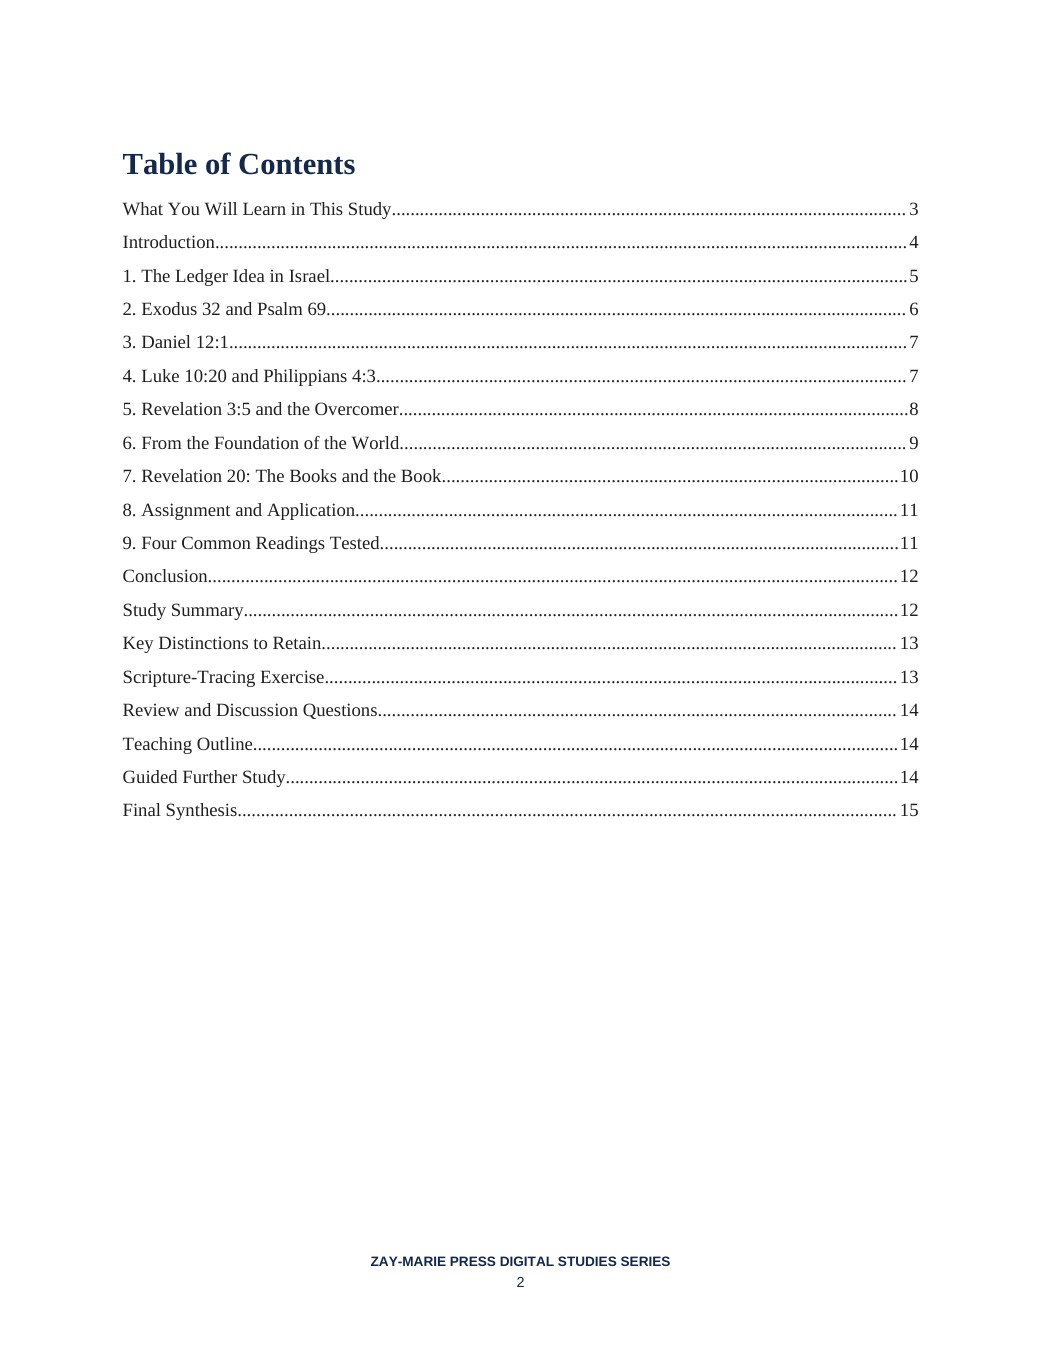
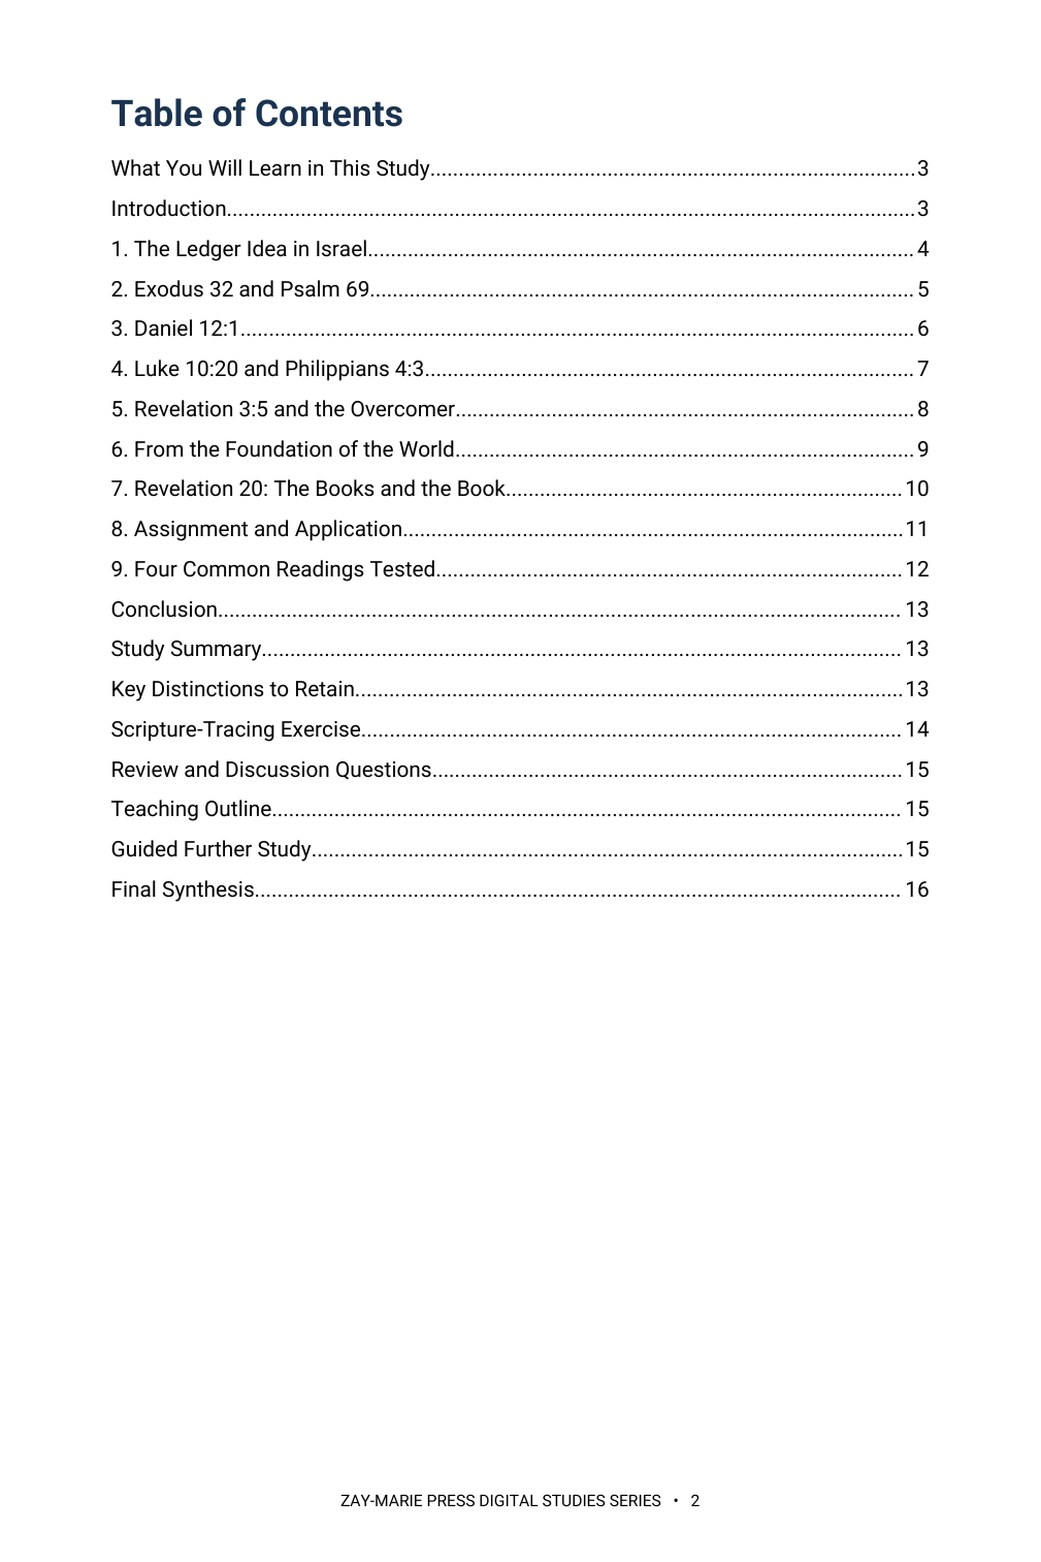
Study 68: rebuilt in Roboto at 10 pt, 16 pages; previews and trackers updated
Claude-Session: https://claude.ai/code/session_01HC7bs9KYP2scp4hCL6DkTp

diff --git a/CLAUDE.md b/CLAUDE.md
@@ -23,7 +23,7 @@ These are kept in the repo at `controlling-documents/` and are the current versi
 - As of v1.50 (publisher directive, 2026-10-03), the **What You Will Learn in This Study** section is always bulleted, never set as running paragraphs, written into this file in the same pass (Master Standard Section 3 item 4, Section 6 structure line, Section 22): a list of bullet points, each describing one process, textual marker or interpretive discipline the reader will practice (Section 17 still governs what they may say); at most one short lead-in line may stand above the bullets (for example, “By the end of this study, you should be able to:”); the Study Goal callout and the Study Outline keep their own forms. It governs every new study and every study rebuilt or retrofitted from now on; earlier studies take it when reopened or when the publisher directs. In every study check (Step 1), report whether the section is bulleted. First applied to Study 43.
 **`controlling-documents/Digital_Studies_Relationship_Map_v1.39.md`** — records each study's distinct subject, its related studies, the eight priced six-study collections, the Paul's Missionary Journeys cross-reference map, and the five primary catalog categories (currently version 1.39, covers Studies 1–71; update it as new studies publish, bump the version number, rename the file to match, and log the change in its own version-history table — mirroring the Master Standard's `_vX.Y` filename convention). Check a proposed topic against it before recommending or writing a new study. (2026-09-28: the file was missing from this repo despite this note referencing it; replaced from the publisher's copy and bumped v1.15→v1.25 in the same pass. If this note ever again points to a version not present under `controlling-documents/`, ask the publisher for a copy rather than proceeding without the check.)
 - **`controlling-documents/Digital_Studies_Category_Standard_v1.1.md`** — FINAL and binding (publisher, 2026-10-01): the rules for the five primary catalog categories (Foundations, Israel & Prophecy, Body of Christ, Passages, Doctrinal Themes), the ordered decision procedure for new studies, the precedents, all 71 fixed assignments, and the cover-label form for each category. Read it before placing any card or cover label. Do not ask the publisher where a study belongs; apply the procedure and state the result. Only the publisher changes a ruling; then bump this Standard's version and filename, re-letter the cover, and update the Relationship Map.
-- **`controlling-documents/Doctrinal_Upgrade_Retrofit_Plan_v1.90.md`** — working tracker for retrofitting Studies 1–59 to the 2026-10-02 doctrinal upgrade (Framework/PAM v1.1, Master Standard v1.40, Rules 7–17): withdrawn-wording search keys, impact tiers, waves and the per-study method. Read it before continuing the retrofit in any session; update status, bump the version and rename the file as work proceeds.
+- **`controlling-documents/Doctrinal_Upgrade_Retrofit_Plan_v1.91.md`** — working tracker for retrofitting Studies 1–59 to the 2026-10-02 doctrinal upgrade (Framework/PAM v1.1, Master Standard v1.40, Rules 7–17): withdrawn-wording search keys, impact tiers, waves and the per-study method. Read it before continuing the retrofit in any session; update status, bump the version and rename the file as work proceeds.
 - **`controlling-documents/Doctrinal_Packet_Standard_v0.3.md`** — Doctrinal Packet Standard (DRAFT; §7 approved). Governs the separate Doctrinal Packets product strand (5-page interpretive PDFs per Bible book — a print-friendly cover as page 1 plus 4 content pages, $2.99, KJV, pilot: Genesis, live at `packet-genesis.html`, hub `doctrinal-packets.html`; site pages say "5 Pages", cover styles live in `packets.css`, Old Testament blue and New Testament soft pale green, hub listed in Bible order). **Preview rule (publisher directive, 2026-09-29, packets only):** previews show about one page's worth in two cropped views (top of page 1 through the anchor texts; the chart section) — never the exegesis, architecture, Mystery contrast, logic chain, outline, or closing. Master Standard §16/§17 still govern Digital Studies. Bump the version and rename the file as the Standard is finalized.
 - **`controlling-documents/Preview_Page_Spoiler_Retrofit_Audit_v1.4.md`** — working tracker for the Studies 1–60 preview-page conclusion-spoiler retrofit (see the section below). Read it before continuing that audit in any session; update its status fields and changelog, bump the version, and rename the file to match as the audit proceeds — same `_vX.Y` convention as the other controlling documents. As of v1.1, the website-side half was DONE: all 60 studies' "What You'll Study" text was judged against the rule (methodology documented in the file) and 22 points across 11 studies were rewritten and pushed; an unrelated Study 22 content bug (Study 21's content had leaked into it) was also found and fixed. As of v1.2, the publisher supplied Studies 1–60's interior production PDFs and the interior-PDF half was also surveyed (read-only): 10 studies (37, 41, 45, 47, 48, 49, 51, 52, 53, 54) were found to have at least one interior "What You Will Learn" violation, 50 studies were confirmed compliant, and the orphaned `assets/study-45-sanctification-under-grace.docx` (removed from the repo per the publisher in v1.0) was confirmed word-for-word identical to Study 45's actual production interior PDF content. As of v1.3, the publisher supplied editable DOCX sources for all 10 violating studies; all 15 violating points were rewritten and approved, delivered as corrected final PDFs, and — along the way — a second defect was found and fixed (Studies 47 and 48's source DOCX still had an unintegrated cover placeholder despite both being long-published live with real covers; fixed by inserting the existing approved cover art). The website's "What You Will Learn" preview image (`study-NN-page-3.jpg`) was regenerated from the corrected content for all 10 studies and pushed to `main` (commit `cea1859`), verified against a fresh clone. **The website side of this audit is now fully compliant for all 60 studies.** Outstanding: the publisher's purchasable interior PDF files themselves have corrected versions delivered, but distribution to existing purchasers was decided by the publisher on 2026-09-29: silent swap of the files behind the existing downloads, no reissue notice (recorded in the v1.4 changelog entry; the product files are not in this repo).
 

diff --git a/controlling-documents/Doctrinal_Upgrade_Retrofit_Plan_v1.91.md b/controlling-documents/Doctrinal_Upgrade_Retrofit_Plan_v1.91.md
@@ -183,3 +183,4 @@ Working tracker for correcting published studies to the Framework/PAM v1.1, Mast
 - v1.88 (2026-10-03): Study 65 correction. The v1.87 build was set in the wrong typeface by a fontconfig fault; rebuilt in Roboto (pdffonts confirms Roboto Regular, Bold and Italic only). Page count is 16 (cover plus 15), not 17; site.js, page text and previews 2, 3 and 5 updated. Content edits as logged in v1.87 are unchanged. Every later build is checked with pdffonts.
 - v1.89 (2026-10-03): Study 66 rebuilt in Roboto at 10 pt on the current page from the publisher's PDF (no DOCX or approved FINAL supplied; text taken from the PDF word for word), 16 pages (cover plus 15; unchanged). Changes: What You Will Learn set as bullets under one lead-in (closing paragraph removed; bullet 7 reworded to a process line); nine callouts reduced to five (Setting Before Command, Authority Before Assignment, One Command and The Age Matthew Names became run-in paragraphs, wording unchanged); Teaching Outline numerals changed to 1–8; split end-of-the-age table merged; reader-facing wording: "framework of this series" (6.3, 7.1), "the framework's treatment of Acts 28" and "controlling framework" replaced. No withdrawn doctrinal wording found. pdffonts confirms Roboto only. Previews 2, 3 and 5 re-rendered.
 - v1.90 (2026-10-03): Study 67 rebuilt in Roboto at 10 pt on the current page from the publisher's PDF (no DOCX or approved FINAL supplied; text taken from the PDF word for word), 17 pages (cover plus 16; was 16). Changes: What You Will Learn set as bullets under one lead-in (closing paragraph removed; bullet 7 reworded to a process line); nine callouts reduced to five (Setting Before Title, Two Titles One Office, Stated Not Supplied and The Readers First became run-in paragraphs, wording unchanged); Teaching Outline numerals changed to 1–8; two split tables merged; reader-facing wording: "This fits the framework of this series" replaced by the Hebrews reader-facing sentence (letter's audience markers and the Jeremiah 31:31–34 covenant), "belongs with the first" changed to "is read here within the first" (interpretive reading, not a book-level assignment), "controlling framework" replaced. No withdrawn doctrinal wording found. pdffonts confirms Roboto only. Previews 2, 3 and 5 re-rendered; site.js and page text updated.
+- v1.91 (2026-10-03): Study 68 rebuilt in Roboto at 10 pt on the current page from the publisher's PDF (no DOCX or approved FINAL supplied; text taken from the PDF word for word), 16 pages (cover plus 15; unchanged). Changes: What You Will Learn set as bullets under one lead-in (closing paragraph removed; bullet 7 reworded to a process line); nine callouts reduced to five (Registers Before the Book, The Verb and Its Speakers, Found Written and The Lamb's Book became run-in paragraphs, wording unchanged); Teaching Outline numerals changed to 1–8; split section 6 table merged; standing wording applied: the reader-facing book sentence added after Hebrews 12:23 (4.3) and Philippians 4:3 (8.2), and "The Body of Christ does not appear in Revelation's prophetic scenes." added to 7.3; "controlling framework" replaced. No withdrawn doctrinal wording found. pdffonts confirms Roboto only. Previews 2, 3 and 5 re-rendered.

diff --git a/controlling-documents/Digital_Studies_PAM_Audit_v1.185.md b/controlling-documents/Digital_Studies_PAM_Audit_v1.185.md
@@ -414,3 +414,4 @@ Study 15 PDF not yet supplied. Typography: none of Studies 2, 3, 6, 8 is in EB G
 - v1.182 (2026-10-03): Study 65 corrected to Roboto, 16 pages (see Retrofit Plan v1.88).
 - v1.183 (2026-10-03): Study 66 rebuilt in Roboto at 10 pt, 16 pages (see Retrofit Plan v1.89).
 - v1.184 (2026-10-03): Study 67 rebuilt in Roboto at 10 pt, 17 pages (see Retrofit Plan v1.90).
+- v1.185 (2026-10-03): Study 68 rebuilt in Roboto at 10 pt, 16 pages (see Retrofit Plan v1.91).
